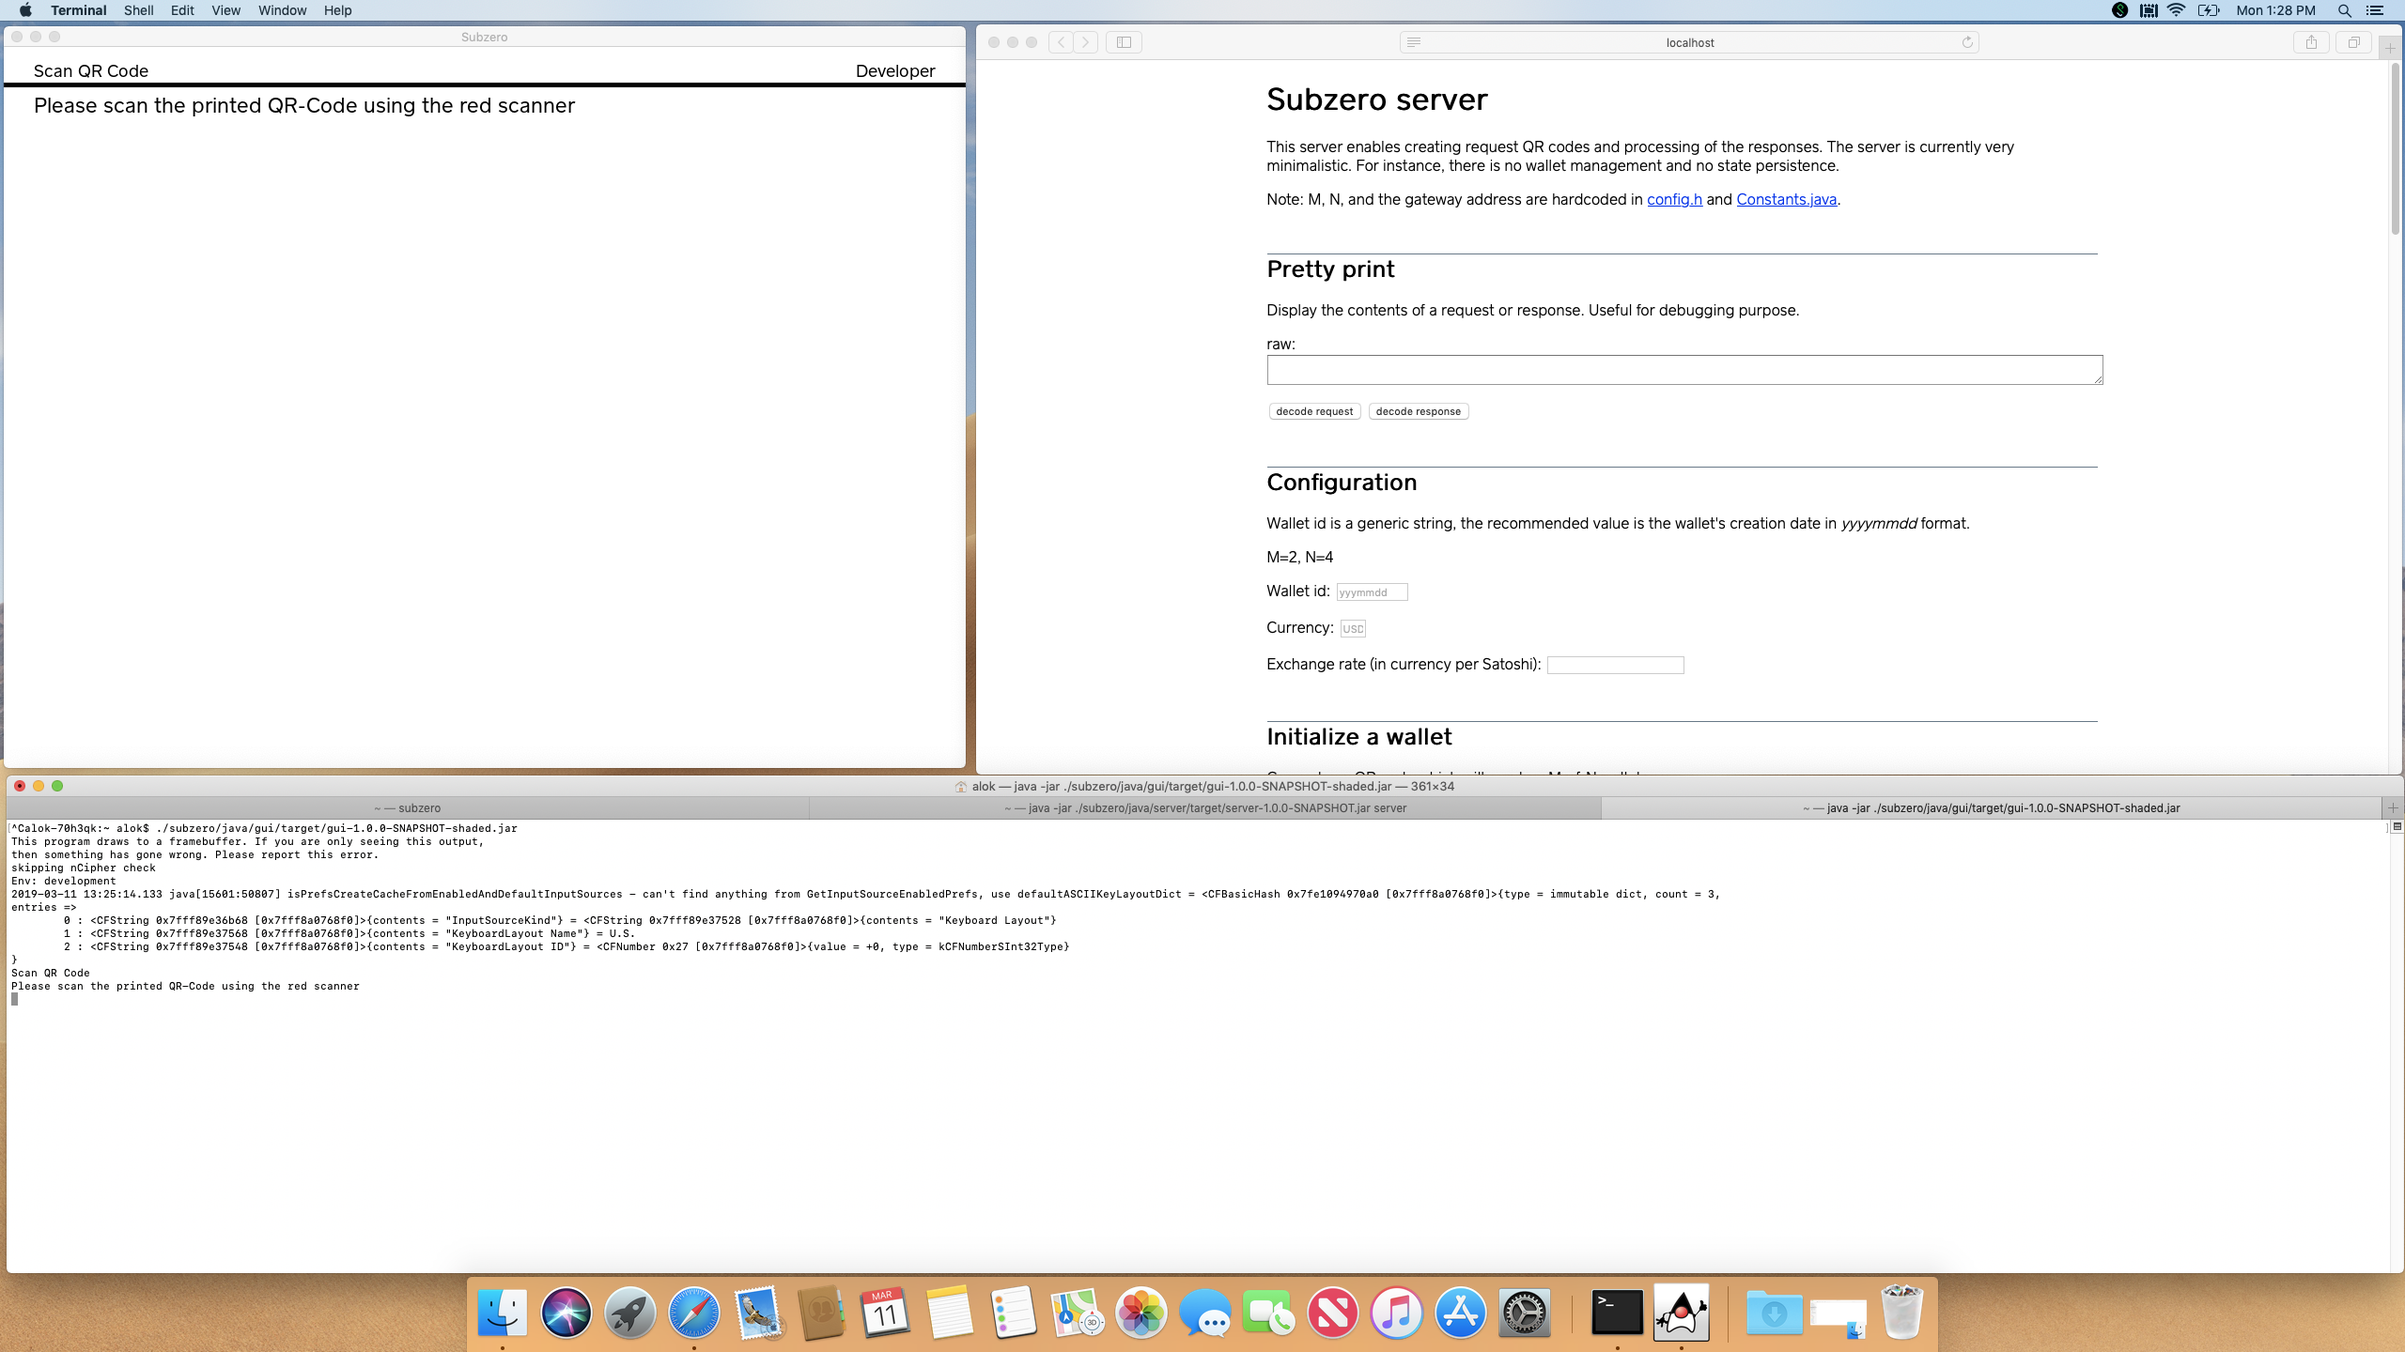
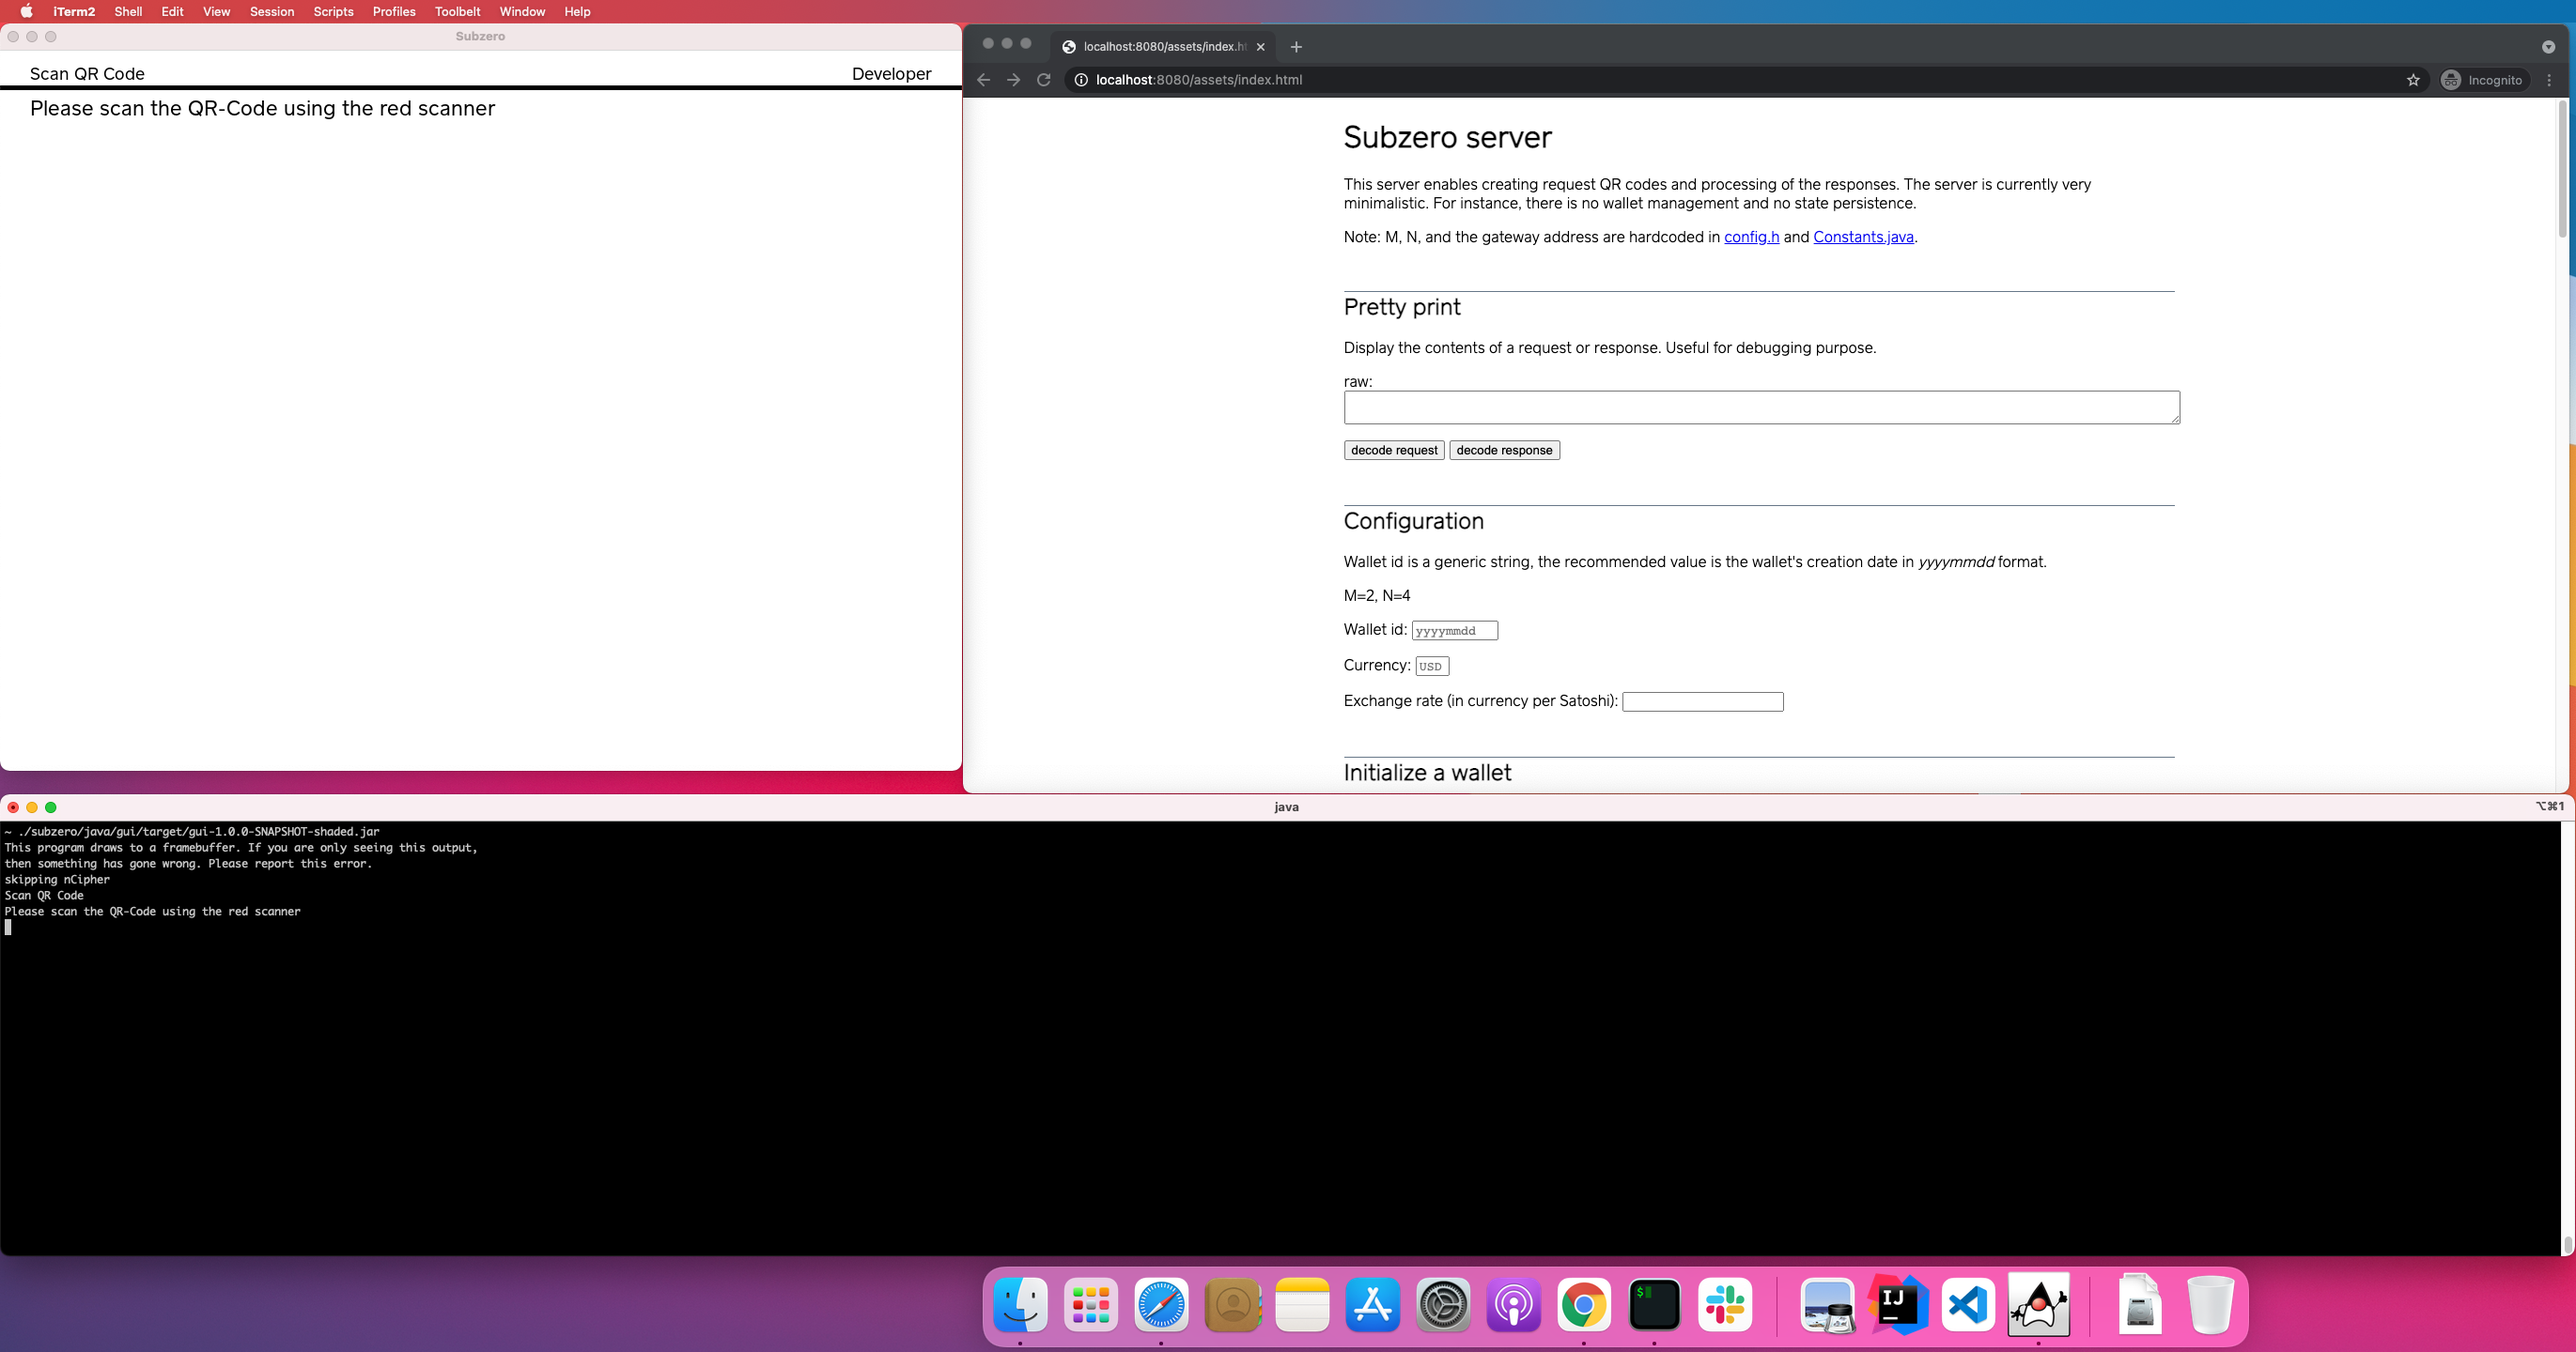
Minor GUI tweak Drop 'printed' from 'printed QR code' as the original phrasing is redundant and could be ambiguous. Also update utility scripts and documentation.

diff --git a/java/gui/src/main/java/com/squareup/subzero/framebuffer/Screens.java b/java/gui/src/main/java/com/squareup/subzero/framebuffer/Screens.java
@@ -106,7 +106,7 @@ public class Screens {
    * @return the data from a scanned QR Code (or just typed in...)
    */
   public String readQRCode() throws IOException {
-    String instructions = "Please scan the printed QR-Code using the red scanner";
+    String instructions = "Please scan the QR-Code using the red scanner";
 
     framebuffer.draw((Graphics2D graphics) ->
       baseScreenLayout(graphics,"Scan QR Code", instructions, Color.white)

diff --git a/utils/txsign_testcase_from_expect_log.py b/utils/txsign_testcase_from_expect_log.py
@@ -16,7 +16,7 @@ def process_expect_log(logfile):
   """
   requests = []
   responses = []
-  request_marker = "Please scan the printed QR-Code using the red scanner"
+  request_marker = "Please scan the QR-Code using the red scanner"
   response_marker = "Displaying QR code. Data: "
   with open(logfile, 'r') as f:
     lines = f.readlines()

diff --git a/utils/txsign_testcase_expect_script_gen.py b/utils/txsign_testcase_expect_script_gen.py
@@ -134,7 +134,7 @@ def generate_expect_script(qr_requests):
   """
 
   expect_template = """
-  expect "Please scan the printed QR-Code using the red scanner"
+  expect "Please scan the QR-Code using the red scanner"
   send -- "$request\\r"
 
   expect "Type exactly \\"yes\\" + <enter> to approve or \\"no\\" + <enter> to abort."
